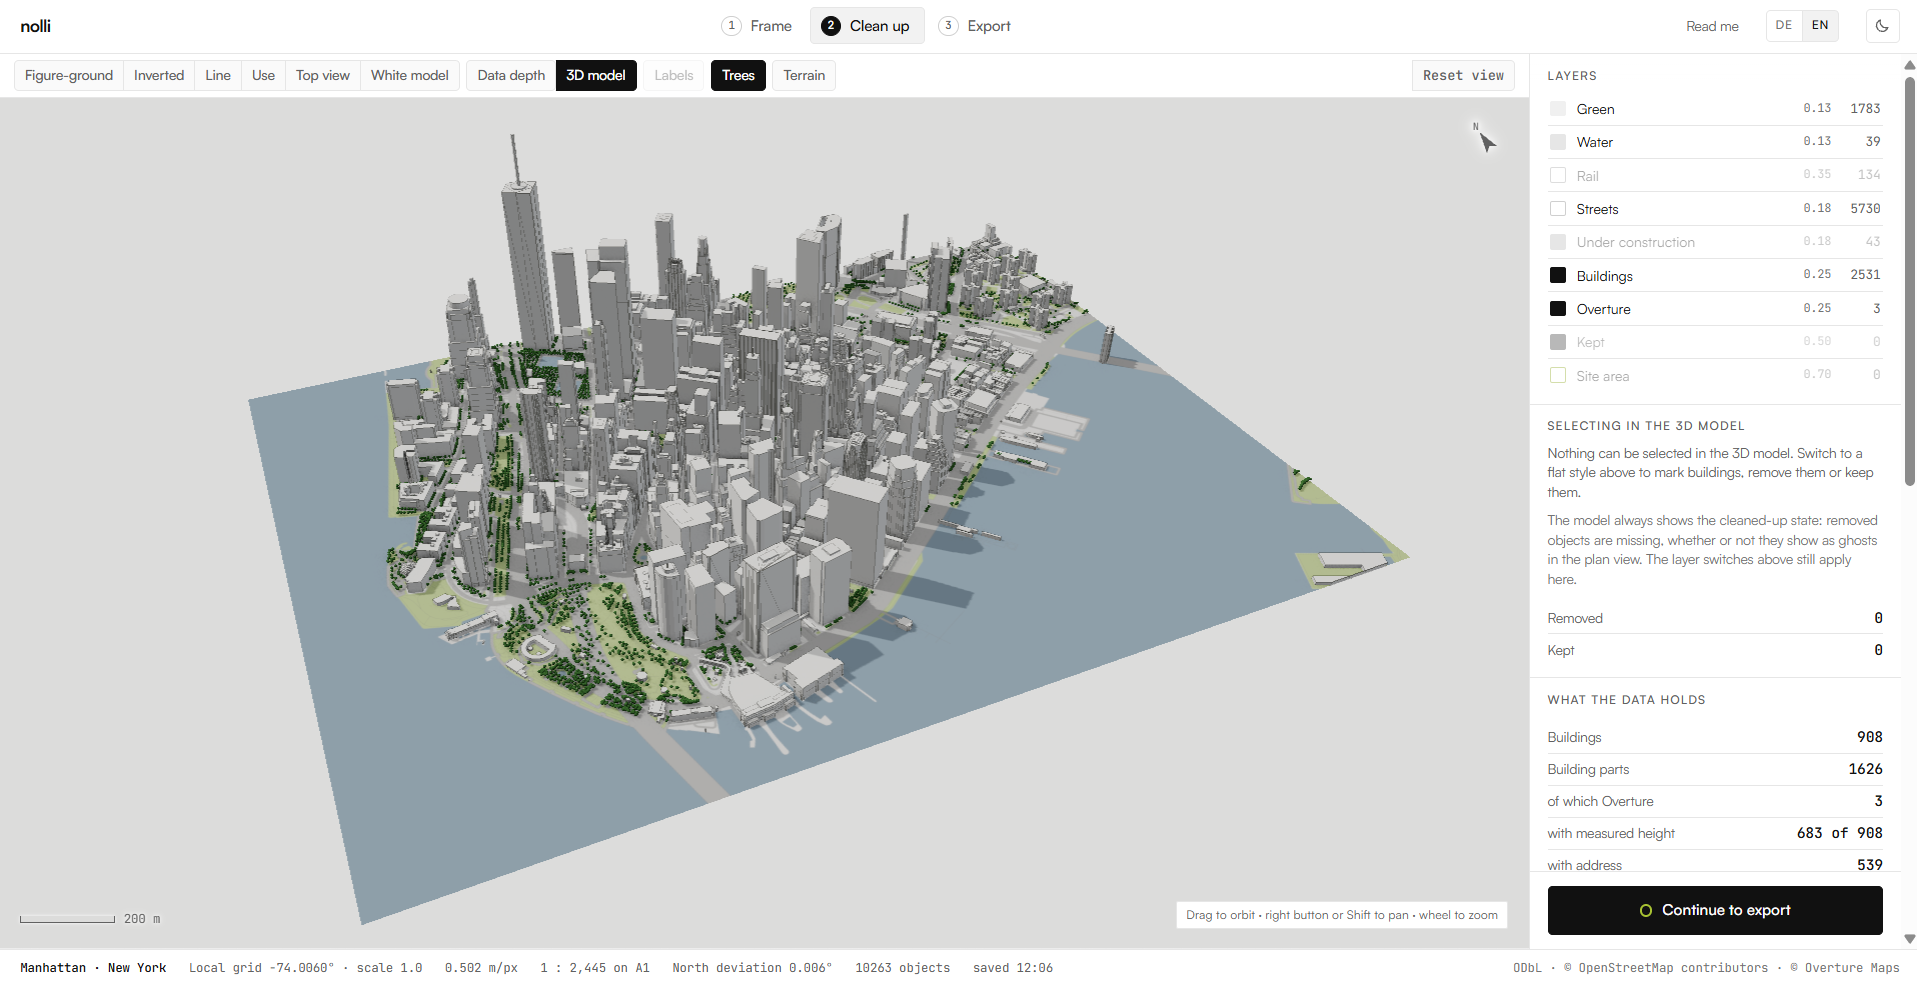
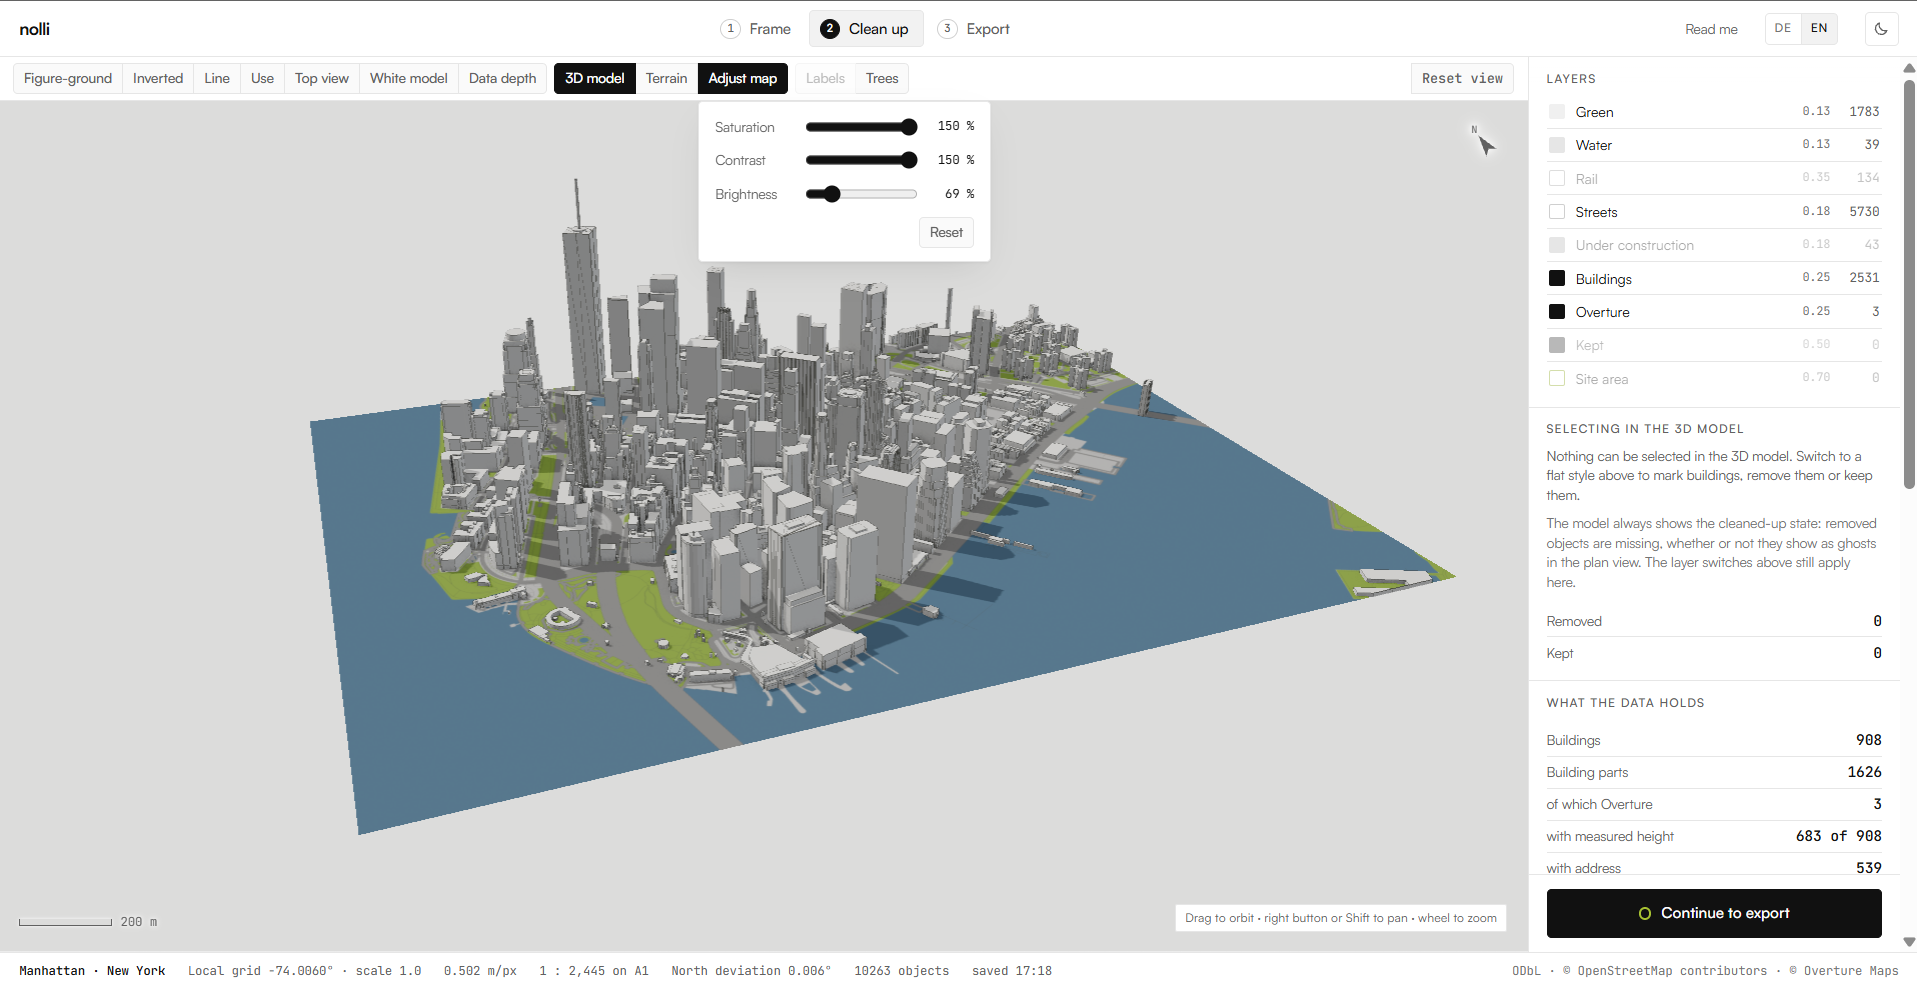
README: neues Bild Lower Manhattan mit Karte anpassen

diff --git a/README.md b/README.md
@@ -114,7 +114,7 @@ The package says so: every flagged building is listed in `frame.json` under
 with the caveat `buildings_implausible`, so a removal by Nolli can be told
 apart from one made by hand.
 
-![3D model with trees, Lower Manhattan. Here OpenStreetMap is nearly complete: Overture adds 3 buildings to 908](docs/manhattan-3d.png)
+![3D model of Lower Manhattan with the ground set under Adjust map. Here OpenStreetMap is nearly complete: Overture adds 3 buildings to 908](docs/manhattan-3d.png)
 
 ## Using the package in Rhino or QGIS
 
